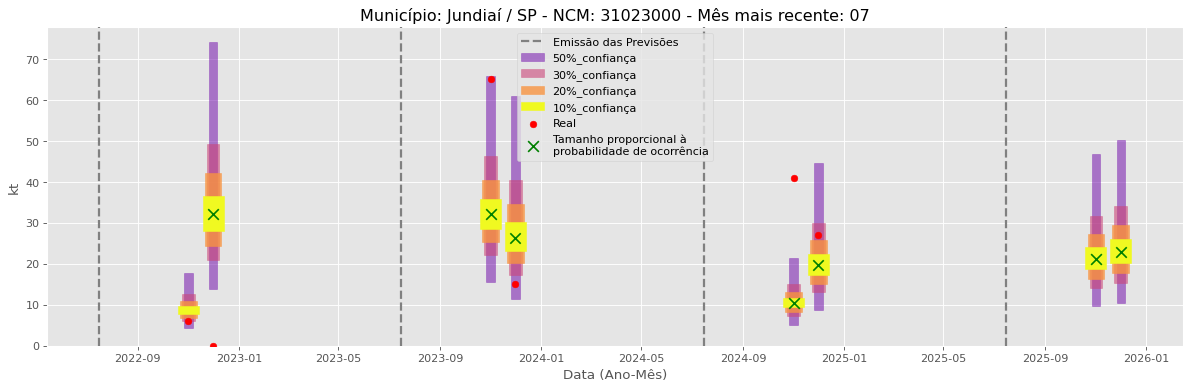
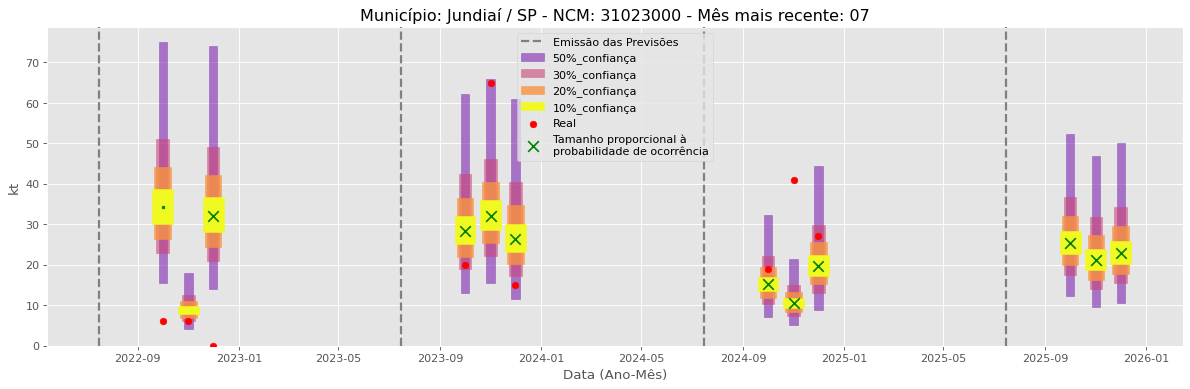
Atualização automática em lote

diff --git a/README.md b/README.md
@@ -21,14 +21,14 @@ Previsões emitidas no mês 8.
 Previsão Influenciada:
 - Município: Jundiaí
 - Produto (NCM): Ureia, mesmo em solução aquosa, com teor de nitrogênio (azoto) superior a 45 %, em peso, calculado sobre o produto anidro no estado seco-31021010 
-- Mês previsto: 02
+- Mês previsto: 10
 
 
 Fator Influenciador: Quantidade em Comex
 - Unidade Federativa: SP
-- Grupo de Produto (SH2): Combustíveis minerais, óleos minerais e produtos da sua destilação; matérias betuminosas; ceras minerais-27 
-- Mês: 1
-- Unidade: kt_lag25
+- Grupo de Produto (SH2): Sementes e frutos oleaginosos; grãos, sementes e frutos diversos; plantas industriais ou medicinais; palhas e forragens-12 
+- Mês: 3
+- Unidade: kt_mun
 
 
 
